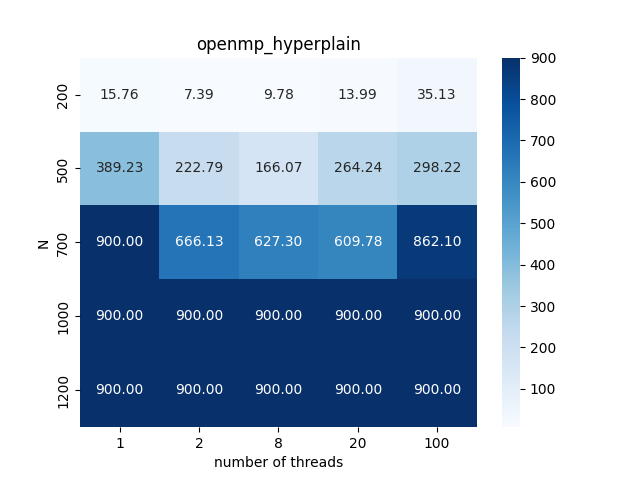
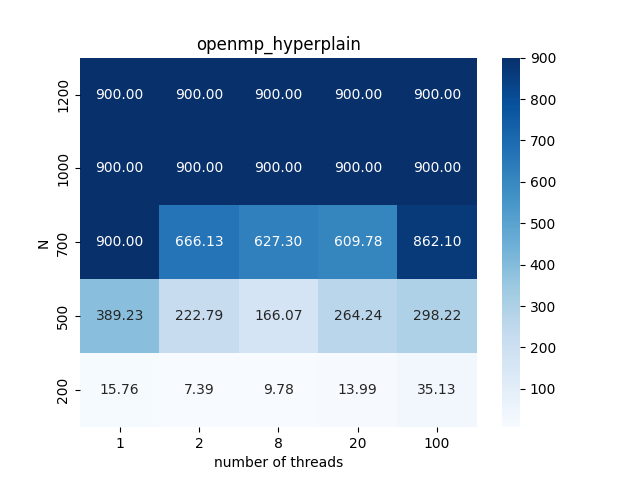
Fix pic

diff --git a/gen_pictures.py b/gen_pictures.py
@@ -25,9 +25,9 @@ for name in os.listdir('out'):
 
 for alg, orig_data in data_dict.items():
     print(alg)
-    sorted_data = sorted(orig_data, key=lambda a: (a[0], a[1])).copy()
+    sorted_data = sorted(orig_data, key=lambda a: (-a[0], a[1])).copy()
     # print(*sorted_data, sep='\n')
-    values = sorted(list({i[0] for i in sorted_data}))
+    values = sorted(list({i[0] for i in sorted_data}), reverse=True)
     num_proc = sorted(list({i[1] for i in sorted_data}))
     n = len(num_proc)
     m = len(values)
